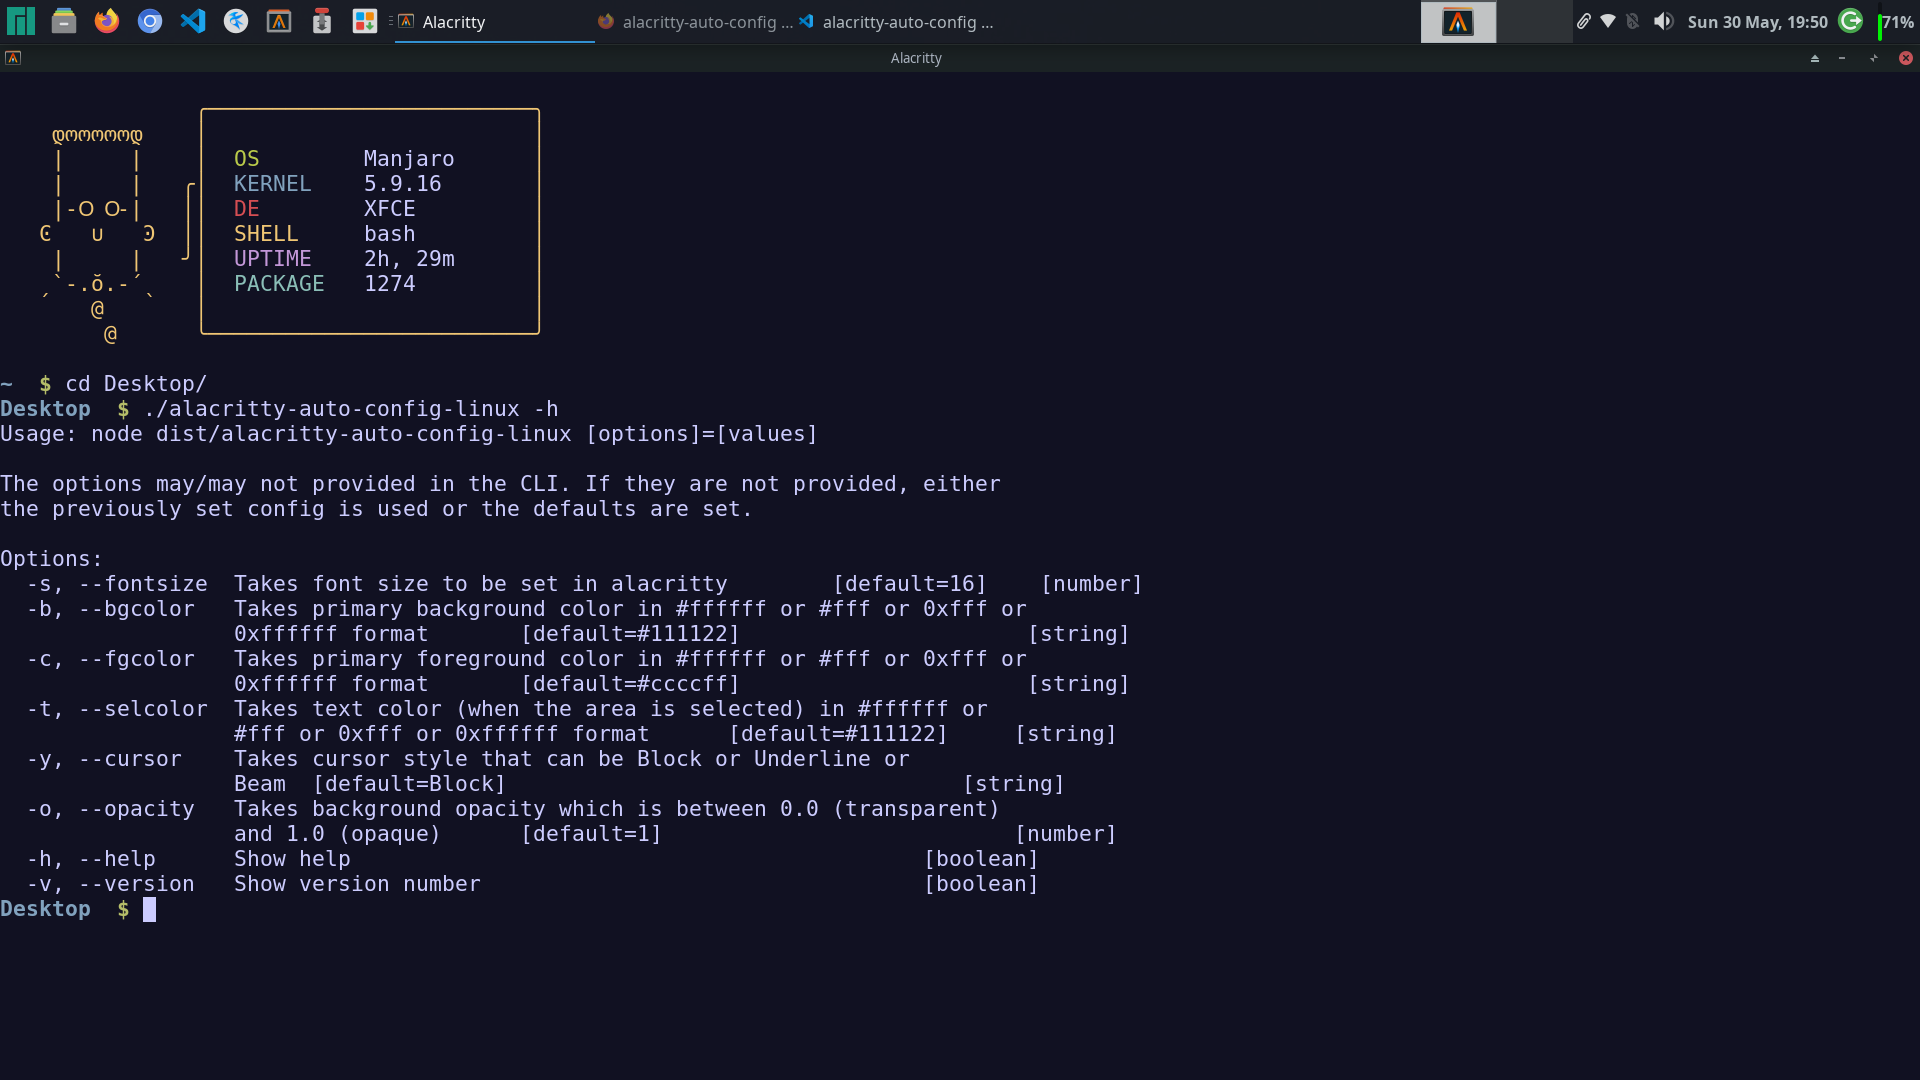
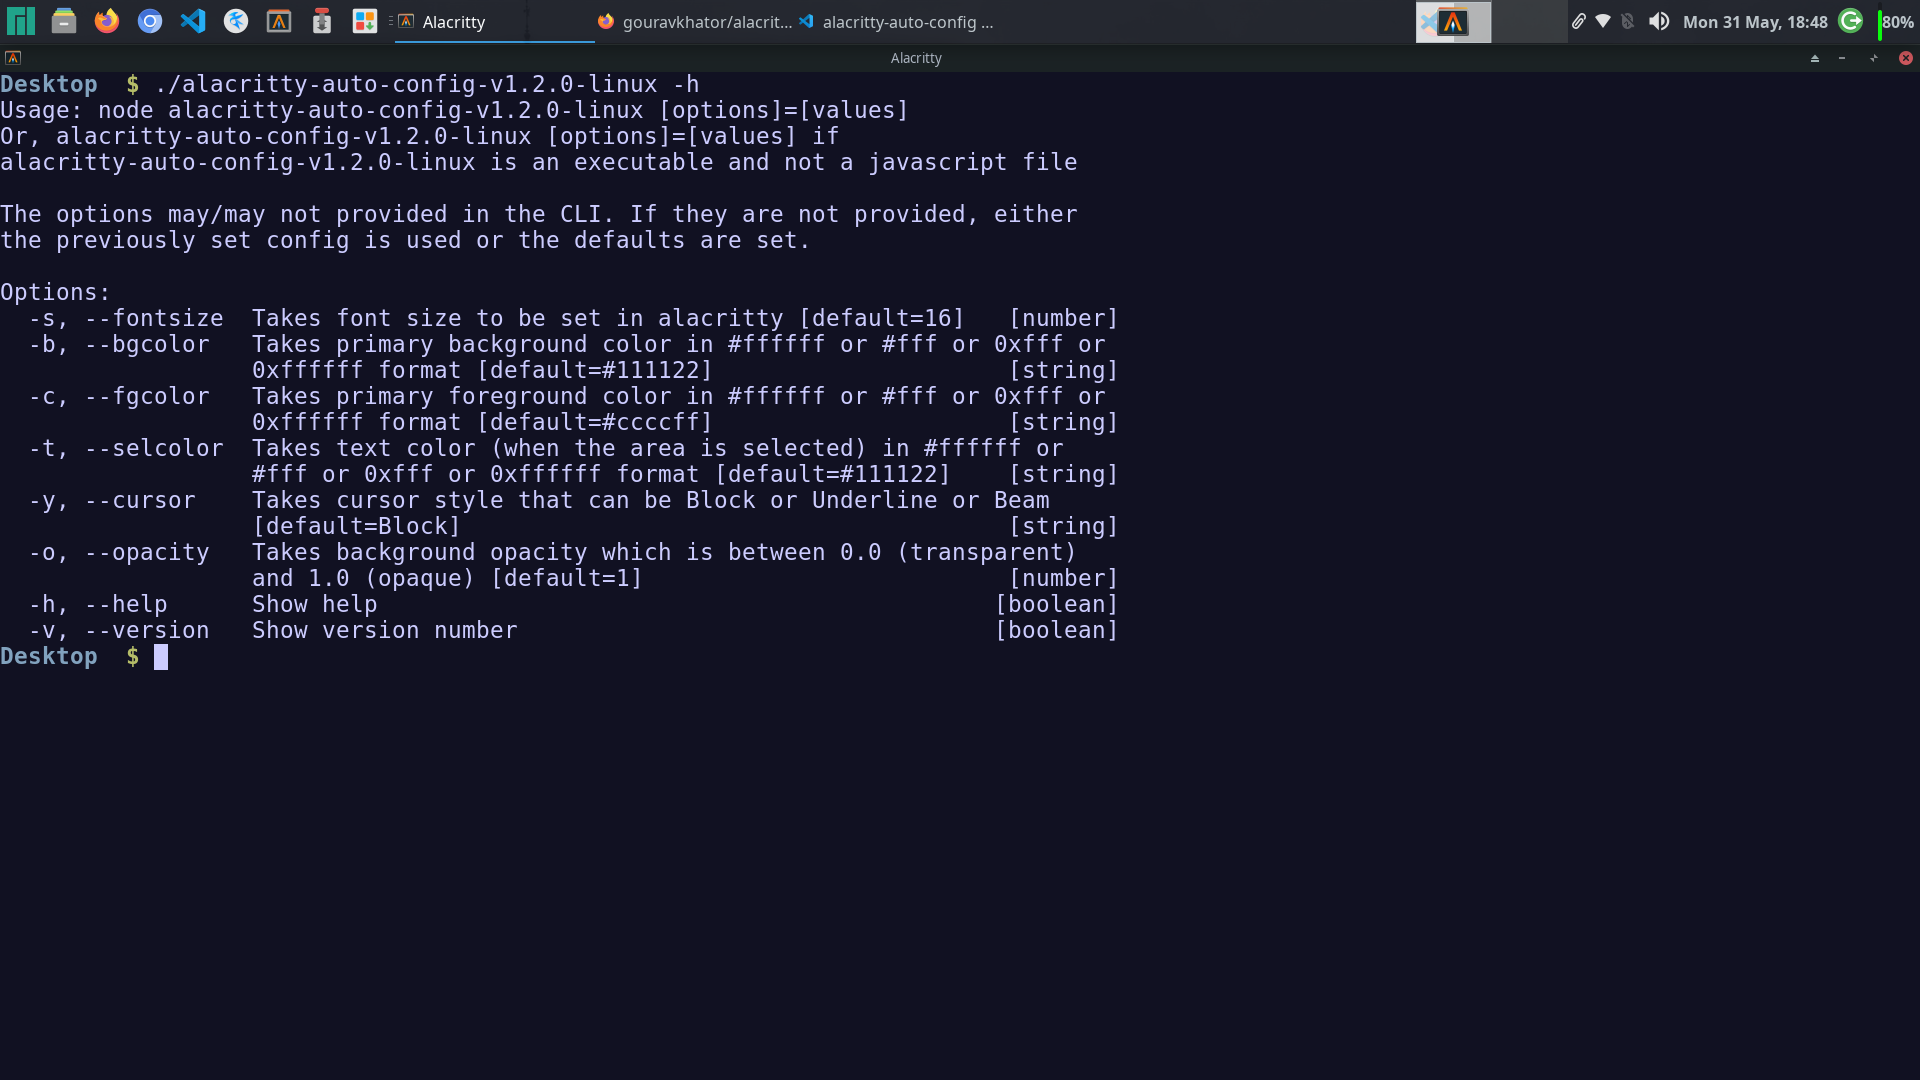
Added windows support

diff --git a/src/autoconfig_api.ts b/src/autoconfig_api.ts
@@ -17,24 +17,25 @@ import { alacritty_summarized_config_structure, alacritty_config_structure } fro
  * 
  * If alacritty is installed and this api is supported on the current os, then make directory and file for its config if the folder or file does not exist.
  * @returns Alacritty config path
+ * @throwsError when the alacritty program is not found in your path variable or not even installed in your system
  */
 export function configInit(): string {
-    // check for os type
+    let alacritty_install_checker_command: string = 'which alacritty';
+    let original_config_path: string = path.join(os.homedir(), '.config/alacritty/alacritty.yml');
+
+    // if os type is windows then change the install checker command and path directory for original config
     if (os.type() === 'Windows_NT') {
-        // The path for alacritty config is %APPDATA%\alacritty\alacritty.yml
-        // TODO: I can code up this if windows users can confirm the working
-        throw new Error("Platform win32 is currently not supported by our app");
+        // The path for alacritty config is C:\Users\gourav\alacritty\alacritty.yml and homedir is C:\Users\gourav
+        alacritty_install_checker_command = 'where alacritty';
+        original_config_path = path.join(os.homedir(), 'AppData', 'alacritty.yml');
     }
 
     // check if alacritty is installed or not
     try {
-        // TODO: which command will not work on windows, the equivalent command is `where <command-name>`
-        execSync('which alacritty');
+        execSync(alacritty_install_checker_command);
     } catch (err: any) {
-        throw new Error("Package Not Installed: alacritty is not installed in your system or it's path is not set in your PATH variable, so you cannot use our library..");
+        throw new Error("Package Not Installed: alacritty is not installed in your system or it's path is not set in your PATH or environment variable. \nSo, we are sorry that you cannot use our library. \n\nPlease install alacritty and try again");
     }
-
-    const original_config_path: string = path.join(os.homedir(), '.config/alacritty/alacritty.yml');
 
     if (!fs.existsSync(original_config_path)) {
         // mkdirectory recursively for original config file if it does not exists
@@ -53,6 +54,7 @@ export function configInit(): string {
  * (I suggest to first invoke the configInit function of the api, then this method will work fine)
  * @param original_config_path Absolute Path required to load the original config file of alacritty (Ex- /home/gourav/.config/alacritty/alacritty.yml)
  * @returns The Alacritty Config object which contains the properties and attributes (if there are any)
+ * @throwsError when the filepath cannot be loaded as yml
  */
 export function readOriginalConfig(original_config_path: string): alacritty_config_structure {
     try {
@@ -68,23 +70,23 @@ export function readOriginalConfig(original_config_path: string): alacritty_conf
  * 
  * @param alacritty_config_to_write The Alacritty Config Object containing the properties and attributes (if there are any), to write to the original config path
  * @param original_config_path_dir Absolute Path for the original alacritty config directory (Ex- /home/gourav/.config/alacritty/)
+ * @throwsError when the configurations cannot be written to target config path directory
  */
 export function writeToConfigFile(alacritty_config_to_write: alacritty_config_structure, original_config_path_dir: string) {
     try {
-        const temp_config_dir = path.join(original_config_path_dir, 'user_config_temp');
         const yml_file_path = path.resolve(original_config_path_dir, 'alacritty.yml');
 
         // mkdir recursively if it does not exists
-        fs.mkdirSync(temp_config_dir, { recursive: true });
+        fs.mkdirSync(path.dirname(yml_file_path), { recursive: true });
 
         const yml_str = JSON2YML.stringify(alacritty_config_to_write); // takes json and converts to yml format
-        
+
         fs.writeFileSync(yml_file_path, yml_str, 'utf-8'); // write the yml str to the file
-        
-        console.log('Please close and reopen all windows of alacritty if some effects were not applied..');
+
+        console.log('----Alacritty Auto Config----\n\nYour configs will be applied..\nIn case, you did not see the new look in alacritty, we suggest to close and reopen all windows of alacritty');
     } catch (err: any) {
         console.log('Sorry, some error occurred while writing configurations to the alacritty.yml file');
-        console.error(err);
+        console.error('Error: ' + err.message);
     }
 }
 
@@ -96,6 +98,7 @@ export function writeToConfigFile(alacritty_config_to_write: alacritty_config_st
  * @param original_config_path_dir Path for the Original Alacritty Config directory (Ex- /home/gourav/.config/alacritty/)
  * 
  * @returns Updated alacritty config
+ * @throwsError when some configs are in wrong format, or when the configs could not be written to file 
  */
 export function editConfig(alacritty_old_config: alacritty_config_structure = {}, new_config: alacritty_summarized_config_structure, original_config_path_dir: string): alacritty_config_structure {
 
@@ -122,7 +125,7 @@ export function editConfig(alacritty_old_config: alacritty_config_structure = {}
     }
 
     // accepts any case (lower, upper, mixed) for Block, Underline, Beam
-    if(cursor_style && !(["Block", "Underline", "Beam"].includes(capitaliseString(cursor_style)))){
+    if (cursor_style && !(["Block", "Underline", "Beam"].includes(capitaliseString(cursor_style)))) {
         throw new Error("Cursor style provided is not in one of the 3 accepted styles");
     }
 

diff --git a/dist/cjs/index.d.ts b/dist/cjs/index.d.ts
@@ -38,6 +38,7 @@ declare type alacritty_summarized_config_structure = {
  *
  * If alacritty is installed and this api is supported on the current os, then make directory and file for its config if the folder or file does not exist.
  * @returns Alacritty config path
+ * @throwsError when the alacritty program is not found in your path variable or not even installed in your system
  */
 declare function configInit(): string;
 /**
@@ -48,6 +49,7 @@ declare function configInit(): string;
  * (I suggest to first invoke the configInit function of the api, then this method will work fine)
  * @param original_config_path Absolute Path required to load the original config file of alacritty (Ex- /home/gourav/.config/alacritty/alacritty.yml)
  * @returns The Alacritty Config object which contains the properties and attributes (if there are any)
+ * @throwsError when the filepath cannot be loaded as yml
  */
 declare function readOriginalConfig(original_config_path: string): alacritty_config_structure;
 /**
@@ -55,6 +57,7 @@ declare function readOriginalConfig(original_config_path: string): alacritty_con
  *
  * @param alacritty_config_to_write The Alacritty Config Object containing the properties and attributes (if there are any), to write to the original config path
  * @param original_config_path_dir Absolute Path for the original alacritty config directory (Ex- /home/gourav/.config/alacritty/)
+ * @throwsError when the configurations cannot be written to target config path directory
  */
 declare function writeToConfigFile(alacritty_config_to_write: alacritty_config_structure, original_config_path_dir: string): void;
 /**
@@ -65,6 +68,7 @@ declare function writeToConfigFile(alacritty_config_to_write: alacritty_config_s
  * @param original_config_path_dir Path for the Original Alacritty Config directory (Ex- /home/gourav/.config/alacritty/)
  *
  * @returns Updated alacritty config
+ * @throwsError when some configs are in wrong format, or when the configs could not be written to file
  */
 declare function editConfig(alacritty_old_config: alacritty_config_structure, new_config: alacritty_summarized_config_structure, original_config_path_dir: string): alacritty_config_structure;
 

diff --git a/dist/esm/index.d.ts b/dist/esm/index.d.ts
@@ -38,6 +38,7 @@ declare type alacritty_summarized_config_structure = {
  *
  * If alacritty is installed and this api is supported on the current os, then make directory and file for its config if the folder or file does not exist.
  * @returns Alacritty config path
+ * @throwsError when the alacritty program is not found in your path variable or not even installed in your system
  */
 declare function configInit(): string;
 /**
@@ -48,6 +49,7 @@ declare function configInit(): string;
  * (I suggest to first invoke the configInit function of the api, then this method will work fine)
  * @param original_config_path Absolute Path required to load the original config file of alacritty (Ex- /home/gourav/.config/alacritty/alacritty.yml)
  * @returns The Alacritty Config object which contains the properties and attributes (if there are any)
+ * @throwsError when the filepath cannot be loaded as yml
  */
 declare function readOriginalConfig(original_config_path: string): alacritty_config_structure;
 /**
@@ -55,6 +57,7 @@ declare function readOriginalConfig(original_config_path: string): alacritty_con
  *
  * @param alacritty_config_to_write The Alacritty Config Object containing the properties and attributes (if there are any), to write to the original config path
  * @param original_config_path_dir Absolute Path for the original alacritty config directory (Ex- /home/gourav/.config/alacritty/)
+ * @throwsError when the configurations cannot be written to target config path directory
  */
 declare function writeToConfigFile(alacritty_config_to_write: alacritty_config_structure, original_config_path_dir: string): void;
 /**
@@ -65,6 +68,7 @@ declare function writeToConfigFile(alacritty_config_to_write: alacritty_config_s
  * @param original_config_path_dir Path for the Original Alacritty Config directory (Ex- /home/gourav/.config/alacritty/)
  *
  * @returns Updated alacritty config
+ * @throwsError when some configs are in wrong format, or when the configs could not be written to file
  */
 declare function editConfig(alacritty_old_config: alacritty_config_structure, new_config: alacritty_summarized_config_structure, original_config_path_dir: string): alacritty_config_structure;
 

diff --git a/src/index.ts b/src/index.ts
@@ -9,7 +9,7 @@ import { alacritty_config_structure } from "./config_object_structures.js";
 /**
  * Main Function which is run from the command line
  */
-function main(){
+function main() {
     let original_config_path: string = "";
 
     try {
@@ -18,28 +18,28 @@ function main(){
         let alacritty_config: alacritty_config_structure = readOriginalConfig(original_config_path);
         const original_config_path_dir: string = path.dirname(original_config_path);
 
-        let argumentInputs = takeArgumentInputs(alacritty_config); 
+        let argumentInputs = takeArgumentInputs(alacritty_config);
         // if the arguments are not passed, it will take the old config only, and if config does not have that property, it will set defaults for that
-        
+
         editConfig(alacritty_config, {
-            fontsize: parseFloat(""+argumentInputs.s), // if they are string or number, convert that to string then parse its numeric value
+            fontsize: parseFloat("" + argumentInputs.s), // if they are string or number, convert that to string then parse its numeric value
             primary_bgcolor: argumentInputs.b,
             primary_fgcolor: argumentInputs.c,
             selection_fgcolor: argumentInputs.t,
             cursor_style: argumentInputs.y,
-            background_opacity: parseFloat(""+argumentInputs.o),
+            background_opacity: parseFloat("" + argumentInputs.o),
         }, original_config_path_dir);
 
     } catch (err) {
-        console.error(err);
+        console.error('Error: ' + err.message);
     }
 }
 
-const fileURL: URL = new URL(`file://${process.argv[1]}`); 
+const fileURL: URL = new URL(`file://${process.argv[1]}`);
 // converting the path to URL as this will make the valid url out of it, like replace space with %20, or some special characters with some codes
 
 // Only run main() when the file is run from cli
-if (import.meta?.url === fileURL.toString()){
+if (import.meta?.url === fileURL.toString()) {
     main();
 }
 

diff --git a/src/argument_parser_util.ts b/src/argument_parser_util.ts
@@ -150,7 +150,7 @@ export function takeArgumentInputs(alacritty_old_config: alacritty_config_struct
             y: { type: 'string' },
             o: { type: 'number' },
         })
-        .usage('Usage: node dist/$0 [options]=[values]\n\nThe options may/may not provided in the CLI. If they are not provided, either the previously set config is used or the defaults are set.')
+        .usage('Usage: node $0 [options]=[values]\nOr, $0 [options]=[values] if $0 is an executable and not a javascript file\n\nThe options may/may not provided in the CLI. If they are not provided, either the previously set config is used or the defaults are set.')
 
         // .demandOption(['s', 'b', 'c']) // to set them required, but as I am setting defaults so its optional
 

diff --git a/README.md b/README.md
@@ -8,7 +8,7 @@ This is a small npm library which is used to automatically configure Alacritty b
 
 **Sorry, but the global/local bin commands are having some issues, I am working on that. If you can contribute, it will be of great help to me. I accept PRs.**
 
-For windows users, I have intentionally not added functionality and if you run my package it would show the error : platform not supported. In future versions, I would add that part.
+For windows users, please run the package, to see if the configurations actually work or not. I am unable to test it out in windows.
 
 Install the package globally:
 ```sh
@@ -81,7 +81,7 @@ npm run build
 npm run generate-binary
 ```
 
-**Make sure, the built code is already present in dist folder. The generate-binary script will generate the binary files for each major OS platforms.** All the executables will be present in the dist/bin folder.
+**The generate-binary script will build the dist folder and generate the binary files for each major OS platforms.** All the executables will be present in the dist/bin folder.
 
 ### Run the development watch mode
 
@@ -150,7 +150,7 @@ npm version patch
 As the package uses rollup and shows version in the CLI, so it will have to be built to dist/ folder after version change in package.json. Run :
 
 ```sh
-npm run build
+npm run generate-binary
 ```
 
-This will modify the dist files. Now, commit the changes and push to remote repo.
+This will build the project, generate binary files in the dist folder. Now, commit the changes and push to remote repo.

diff --git a/CHANGELOG.md b/CHANGELOG.md
@@ -1,0 +1,11 @@
+## Changes v1.x
+
+* Project basic functionalities were developed with fontsize, background color, and text color to be changeable.
+* Added Documentation.
+* Fixed package so that it can be  imported in both cjs and esm module style.
+* Added executables export option.
+* **v1.1.0 bump** - Added more options like background opacity, selection text color, and cursor style
+* *Deprecated* convertToHex and convertToHash methods and edited functionality in their method syntax. The deprecated methods are renamed as oldConvertToHex and oldConvertToHash methods.
+* **v1.2.0 bump** - Removed execSync command and did json2yaml programmatically using npm package.
+* **v1.3.0 bump** - Added windows support.
+
